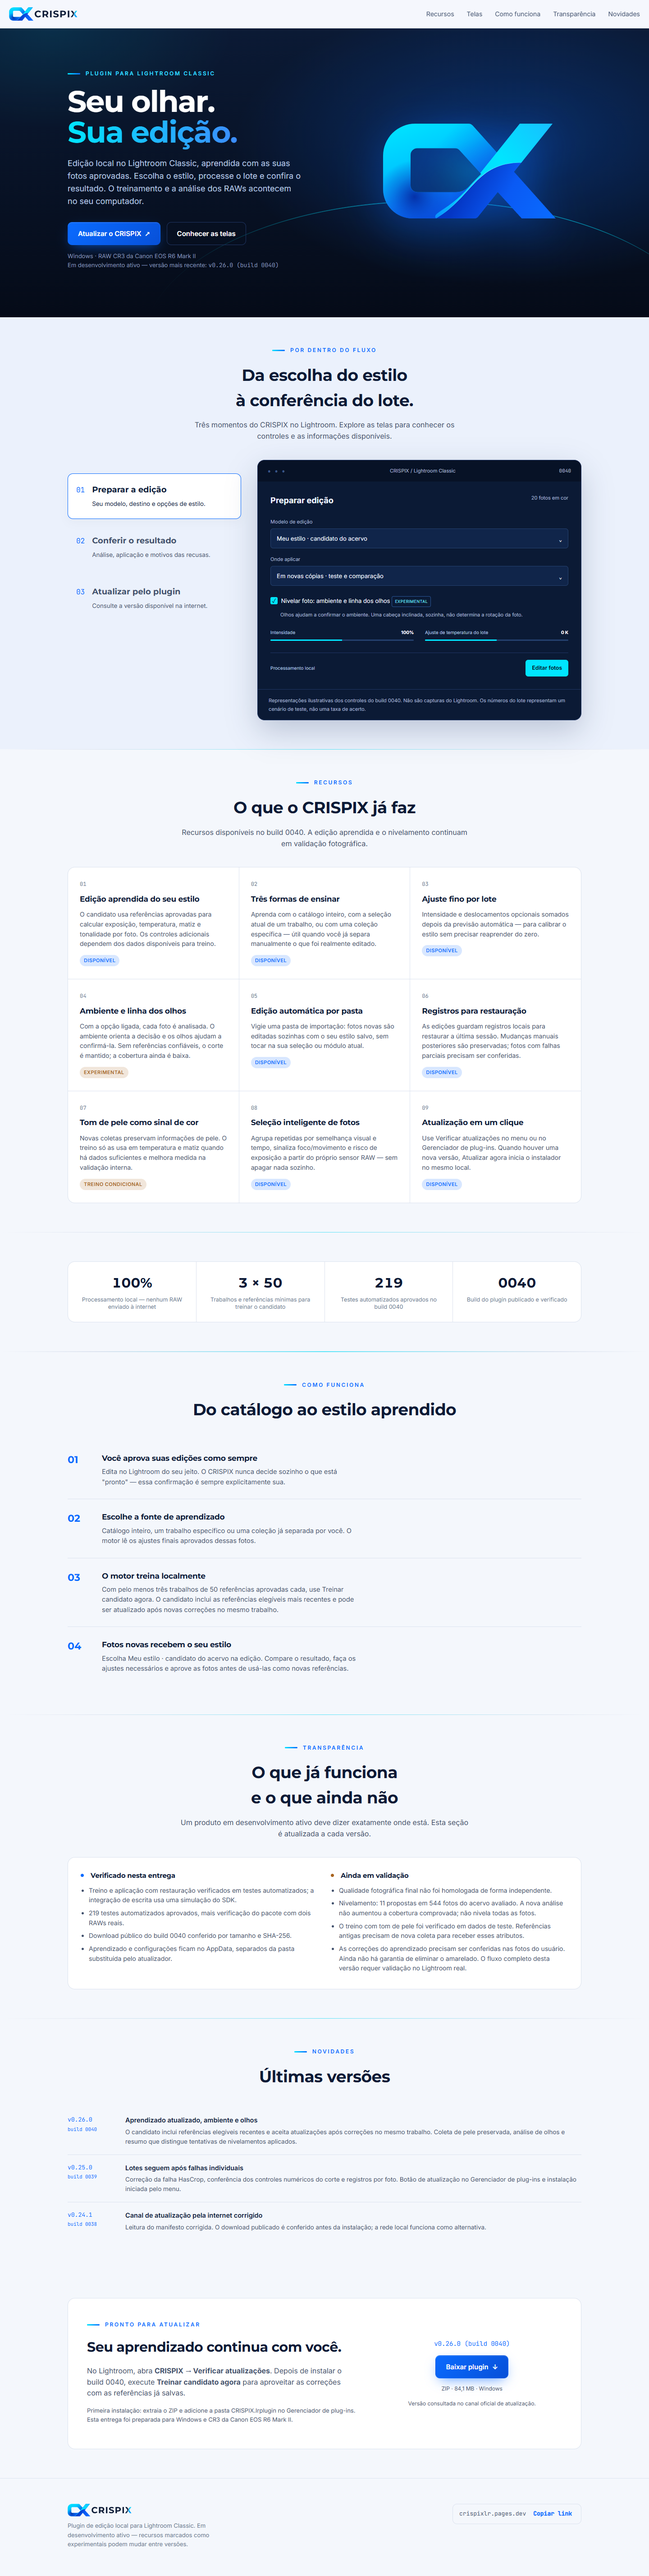
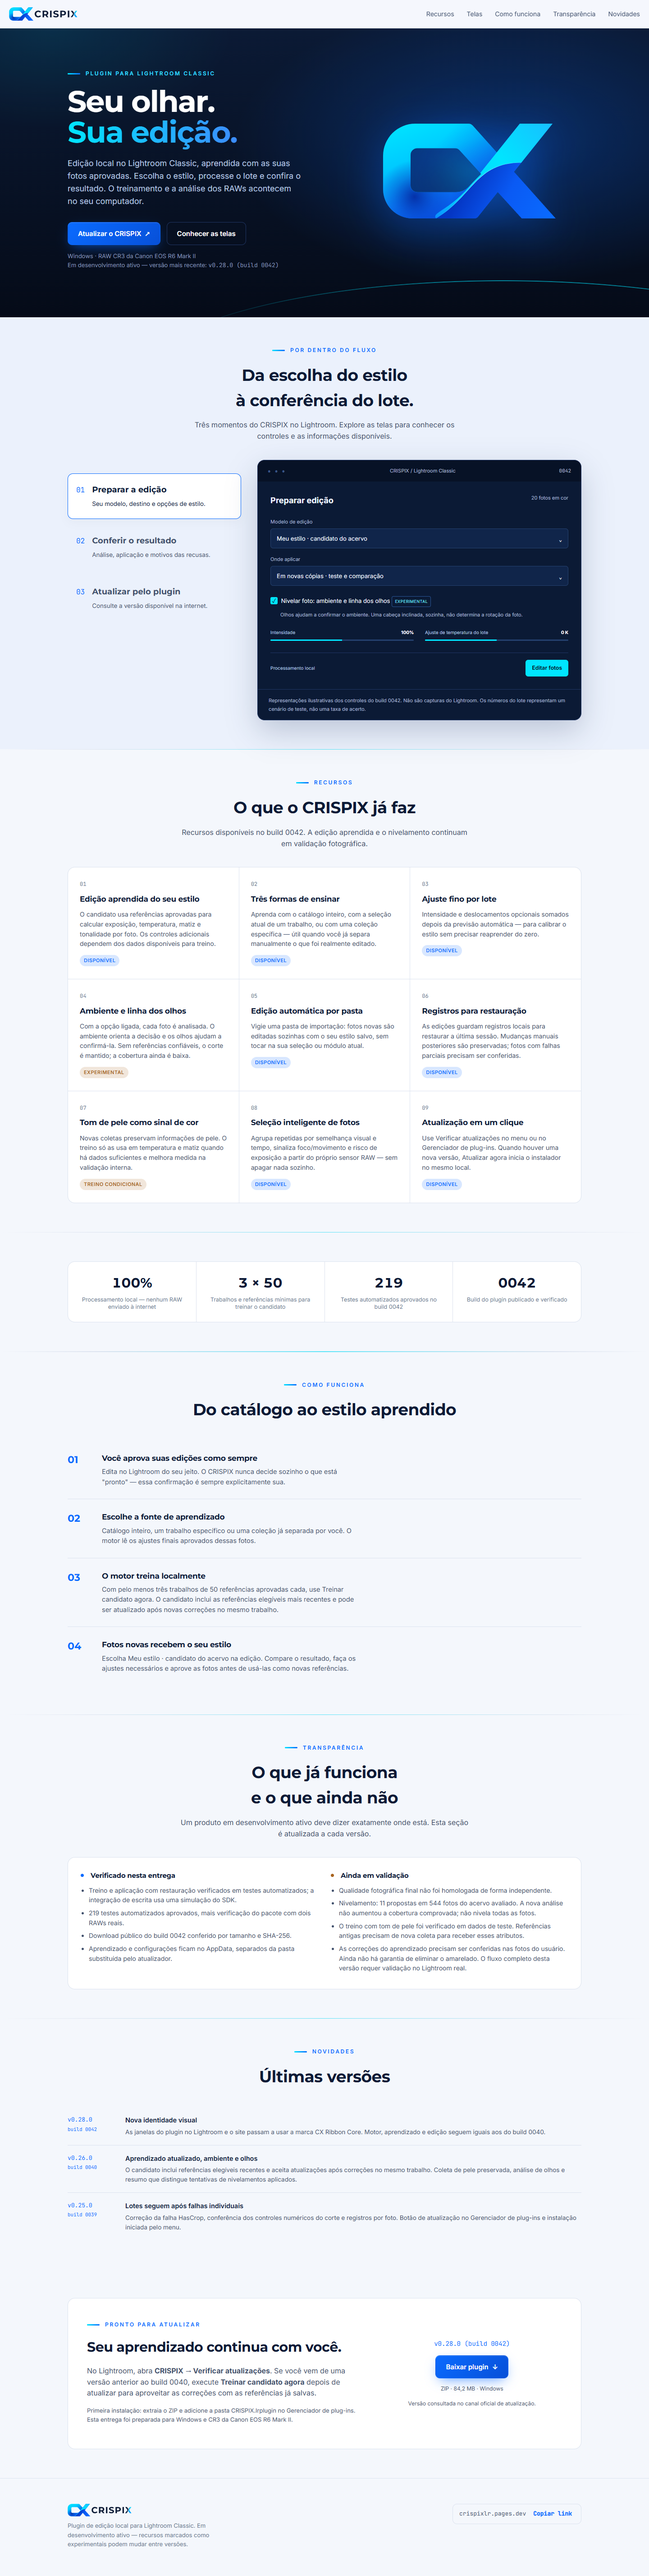
improve: registra release automatico 0042 com nova identidade e verificacao do pacote

Changed region(s): [[0.1875, 0.8108, 0.75, 0.8732], [0.4375, 0.9043, 0.4688, 0.9355]]

diff --git a/targets/mizin_lightroom/reconstructed/branding/site/index.html b/targets/mizin_lightroom/reconstructed/branding/site/index.html
@@ -3,7 +3,7 @@
 <head>
 <meta charset="utf-8">
 <meta name="viewport" content="width=device-width, initial-scale=1">
-<meta name="description" content="CRISPIX para Lightroom Classic: edição local, aprendizado com suas fotos aprovadas e atualização pelo próprio plugin. Conheça o build 0040.">
+<meta name="description" content="CRISPIX para Lightroom Classic: edição local, aprendizado com suas fotos aprovadas e atualização pelo próprio plugin. Conheça o build 0042.">
 <title>CRISPIX — seu estilo, no Lightroom Classic</title>
 <meta name="theme-color" content="#050B18">
 <link rel="icon" href="favicon.svg" type="image/svg+xml">
@@ -301,7 +301,7 @@
         <a class="btn btn-primary" href="#atualizar">Atualizar o CRISPIX <span aria-hidden="true">↗</span></a>
         <a class="btn btn-ghost" href="#telas">Conhecer as telas</a>
       </div>
-      <p class="hero-note">Windows · RAW CR3 da Canon EOS R6 Mark II<br>Em desenvolvimento ativo — versão mais recente: <span class="mono" id="verAtual">v0.26.0 (build 0040)</span></p>
+      <p class="hero-note">Windows · RAW CR3 da Canon EOS R6 Mark II<br>Em desenvolvimento ativo — versão mais recente: <span class="mono" id="verAtual">v0.28.0 (build 0042)</span></p>
     </div>
     <div class="mark-stage">
       <img src="brand/crispix-simbolo.svg" width="1192" height="660" alt="">
@@ -319,7 +319,7 @@
     <button id="tab-update" role="tab" aria-selected="false" aria-controls="screen-update" tabindex="-1" data-screen="update"><span class="screen-number">03</span><span><strong>Atualizar pelo plugin</strong><small>Consulte a versão disponível na internet.</small></span></button>
    </div>
    <div class="demo-frame">
-    <div class="demo-bar"><span class="demo-dots" aria-hidden="true">● ● ●</span><span>CRISPIX / Lightroom Classic</span><span class="mono">0040</span></div>
+    <div class="demo-bar"><span class="demo-dots" aria-hidden="true">● ● ●</span><span>CRISPIX / Lightroom Classic</span><span class="mono">0042</span></div>
     <div id="screen-edit" role="tabpanel" aria-labelledby="tab-edit" class="demo-panel">
      <div class="demo-heading"><strong>Preparar edição</strong><span>20 fotos em cor</span></div>
      <div class="mock-field"><span>Modelo de edição</span><div>Meu estilo · candidato do acervo <span aria-hidden="true">⌄</span></div></div>
@@ -339,11 +339,11 @@
     </div>
     <div id="screen-update" role="tabpanel" aria-labelledby="tab-update" class="demo-panel" hidden>
      <div class="demo-heading"><strong>Nova versão disponível</strong><span>Canal: internet</span></div>
-     <div class="update-version"><span class="small-badge">Disponível</span><strong>v0.26.0</strong><span class="mono">build 0040</span></div>
+     <div class="update-version"><span class="small-badge">Disponível</span><strong>v0.28.0</strong><span class="mono">build 0042</span></div>
      <p>O atualizador baixa o pacote e confere sua integridade antes de instalar.</p><div class="demo-callout">O Lightroom será fechado e reaberto. Conclua o backup do catálogo se a janela aparecer. O aprendizado salvo fica preservado.</div>
      <div class="demo-actions"><span>Verificar atualizações</span><span class="mock-action">Atualizar agora</span></div>
     </div>
-    <p class="demo-caption">Representações ilustrativas dos controles do build 0040. Não são capturas do Lightroom. Os números do lote representam um cenário de teste, não uma taxa de acerto.</p>
+    <p class="demo-caption">Representações ilustrativas dos controles do build 0042. Não são capturas do Lightroom. Os números do lote representam um cenário de teste, não uma taxa de acerto.</p>
    </div>
   </div>
  </div>
@@ -357,7 +357,7 @@
     <div class="section-head">
       <div class="eyebrow">Recursos</div>
       <h2>O que o CRISPIX já faz</h2>
-      <p>Recursos disponíveis no build 0040. A edição aprendida e o nivelamento continuam em validação fotográfica.</p>
+      <p>Recursos disponíveis no build 0042. A edição aprendida e o nivelamento continuam em validação fotográfica.</p>
     </div>
     <div class="features">
       <div class="feature">
@@ -425,8 +425,8 @@
     <div class="stats">
       <div class="stat"><div class="big mono">100%</div><div class="lbl">Processamento local — nenhum RAW enviado à internet</div></div>
       <div class="stat"><div class="big mono">3 × 50</div><div class="lbl">Trabalhos e referências mínimas para treinar o candidato</div></div>
-      <div class="stat"><div class="big mono">219</div><div class="lbl">Testes automatizados aprovados no build 0040</div></div>
-      <div class="stat"><div class="big mono">0040</div><div class="lbl">Build do plugin publicado e verificado</div></div>
+      <div class="stat"><div class="big mono">219</div><div class="lbl">Testes automatizados aprovados no build 0042</div></div>
+      <div class="stat"><div class="big mono">0042</div><div class="lbl">Build do plugin publicado e verificado</div></div>
     </div>
   </div>
 </section>
@@ -486,7 +486,7 @@
         <ul>
           <li>Treino e aplicação com restauração verificados em testes automatizados; a integração de escrita usa uma simulação do SDK.</li>
           <li>219 testes automatizados aprovados, mais verificação do pacote com dois RAWs reais.</li>
-          <li>Download público do build 0040 conferido por tamanho e SHA-256.</li>
+          <li>Download público do build 0042 conferido por tamanho e SHA-256.</li>
           <li>Aprendizado e configurações ficam no AppData, separados da pasta substituída pelo atualizador.</li>
         </ul>
       </div>
@@ -512,14 +512,14 @@
       <h2>Últimas versões</h2>
     </div>
     <div class="log">
+<div class="log-row"><div class="log-ver">v0.28.0<br><small>build 0042</small></div><div class="log-body"><h4>Nova identidade visual</h4><p>As janelas do plugin no Lightroom e o site passam a usar a marca CX Ribbon Core. Motor, aprendizado e edição seguem iguais aos do build 0040.</p></div></div>
 <div class="log-row"><div class="log-ver">v0.26.0<br><small>build 0040</small></div><div class="log-body"><h4>Aprendizado atualizado, ambiente e olhos</h4><p>O candidato inclui referências elegíveis recentes e aceita atualizações após correções no mesmo trabalho. Coleta de pele preservada, análise de olhos e resumo que distingue tentativas de nivelamentos aplicados.</p></div></div>
 <div class="log-row"><div class="log-ver">v0.25.0<br><small>build 0039</small></div><div class="log-body"><h4>Lotes seguem após falhas individuais</h4><p>Correção da falha HasCrop, conferência dos controles numéricos do corte e registros por foto. Botão de atualização no Gerenciador de plug-ins e instalação iniciada pelo menu.</p></div></div>
-<div class="log-row"><div class="log-ver">v0.24.1<br><small>build 0038</small></div><div class="log-body"><h4>Canal de atualização pela internet corrigido</h4><p>Leitura do manifesto corrigida. O download publicado é conferido antes da instalação; a rede local funciona como alternativa.</p></div></div>
     </div>
   </div>
 </section>
 
-<section id="atualizar" class="wrap"><div class="container download-panel"><div><div class="eyebrow">Pronto para atualizar</div><h2>Seu aprendizado continua com você.</h2><p>No Lightroom, abra <strong>CRISPIX → Verificar atualizações</strong>. Depois de instalar o build 0040, execute <strong>Treinar candidato agora</strong> para aproveitar as correções com as referências já salvas.</p><p class="download-note">Primeira instalação: extraia o ZIP e adicione a pasta CRISPIX.lrplugin no Gerenciador de plug-ins. Esta entrega foi preparada para Windows e CR3 da Canon EOS R6 Mark II.</p></div><div class="download-action"><span class="mono" id="download-version">v0.26.0 (build 0040)</span><a class="btn btn-primary" id="download-link" href="https://pub-739d5fceaa824a6c8c84e39bb74ec917.r2.dev/CRISPIX-0.26.0-build0040-motor-local.zip">Baixar plugin <span aria-hidden="true">↓</span></a><small id="download-size">ZIP · 84,1 MB · Windows</small><p id="release-status" role="status">Informações verificadas para o build 0040.</p></div></div></section>
+<section id="atualizar" class="wrap"><div class="container download-panel"><div><div class="eyebrow">Pronto para atualizar</div><h2>Seu aprendizado continua com você.</h2><p>No Lightroom, abra <strong>CRISPIX → Verificar atualizações</strong>. Se você vem de uma versão anterior ao build 0040, execute <strong>Treinar candidato agora</strong> depois de atualizar para aproveitar as correções com as referências já salvas.</p><p class="download-note">Primeira instalação: extraia o ZIP e adicione a pasta CRISPIX.lrplugin no Gerenciador de plug-ins. Esta entrega foi preparada para Windows e CR3 da Canon EOS R6 Mark II.</p></div><div class="download-action"><span class="mono" id="download-version">v0.28.0 (build 0042)</span><a class="btn btn-primary" id="download-link" href="https://pub-739d5fceaa824a6c8c84e39bb74ec917.r2.dev/CRISPIX-0.28.0-build0042-motor-local.zip">Baixar plugin <span aria-hidden="true">↓</span></a><small id="download-size">ZIP · 84,2 MB · Windows</small><p id="release-status" role="status">Informações verificadas para o build 0042.</p></div></div></section>
 </main>
 <footer class="wrap">
   <div class="container foot-grid">

diff --git a/targets/mizin_lightroom/reconstructed/branding/site/showcase.js b/targets/mizin_lightroom/reconstructed/branding/site/showcase.js
@@ -36,7 +36,7 @@ fetch('latest.json', {cache: 'no-store'}).then(response => {
   document.getElementById('download-size').textContent = `ZIP · ${(release.archiveBytes / 1e6).toLocaleString('pt-BR', {maximumFractionDigits: 1})} MB · Windows`;
   document.getElementById('release-status').textContent = 'Versão consultada no canal oficial de atualização.';
 }).catch(() => {
-  document.getElementById('release-status').textContent = 'Canal indisponível no momento. O link acima é do build 0040 já publicado.';
+  document.getElementById('release-status').textContent = 'Canal indisponível no momento. O link acima é do build 0042 já publicado.';
 });
 
 // Only approved real pairs belong in comparisons.json. Empty galleries stay out of navigation.

diff --git a/targets/mizin_lightroom/scripts/verify_site_showcase.py b/targets/mizin_lightroom/scripts/verify_site_showcase.py
@@ -8,9 +8,20 @@ from playwright.sync_api import sync_playwright
 ROOT = Path(__file__).resolve().parents[1]
 
 
+R2_PUBLIC = 'https://pub-739d5fceaa824a6c8c84e39bb74ec917.r2.dev'
+
+
+def current_release():
+    """Latest local delivery as the public manifest will serve it (downloadUrl added on publish)."""
+    release = json.loads((ROOT/'private/deliveries/latest.json').read_text(encoding='utf-8-sig'))
+    release.setdefault('downloadUrl', f"{R2_PUBLIC}/{release['archiveName']}")
+    return release
+
+
 def verify(url, output):
     output.mkdir(parents=True, exist_ok=True)
-    manifest = (ROOT/'private/publication-0040/site/latest.json').read_text(encoding='utf-8')
+    release = current_release()
+    manifest = json.dumps(release)
     errors, checks = [], []
     with sync_playwright() as p:
         browser = p.chromium.launch(channel='chrome', headless=True)
@@ -20,7 +31,7 @@ def verify(url, output):
         page.goto(url, wait_until='networkidle')
         assert page.title().startswith('CRISPIX')
         assert page.locator('h1').count()==1
-        assert page.locator('#verAtual').inner_text()=='v0.26.0 (build 0040)'
+        assert page.locator('#verAtual').inner_text()==release['version']
         assert page.locator('#comparativo').is_hidden()
         assert page.locator('[data-comparison-link]').is_hidden()
         for screen in ('result','update','edit'):
@@ -47,7 +58,7 @@ def verify(url, output):
         page.route('**/latest.json',lambda route:route.fulfill(status=503,body='Unavailable'))
         page.reload(wait_until='networkidle')
         assert 'indisponível' in page.locator('#release-status').inner_text()
-        assert 'build0040' in page.locator('#download-link').get_attribute('href')
+        assert f"build{release['build']}" in page.locator('#download-link').get_attribute('href')
         checks.append('manifest failure preserves known download')
         # A tiny test pixel exercises slider loading without presenting invented photo results.
[1 lines of base64/hex data omitted]
@@ -86,5 +97,5 @@ def verify(url, output):
 if __name__=='__main__':
     parser=argparse.ArgumentParser()
     parser.add_argument('--url',default='http://127.0.0.1:8764/')
-    parser.add_argument('--output',type=Path,default=ROOT/'evidence/site-showcase-0041')
+    parser.add_argument('--output',type=Path,default=ROOT/'evidence/site-identidade-cx')
     args=parser.parse_args();verify(args.url,args.output)

diff --git a/targets/mizin_lightroom/README.md b/targets/mizin_lightroom/README.md
@@ -1,6 +1,6 @@
 # Mizin Lightroom - aquisicao local e perfil de referencia
 
-> **Versão da Análise**: `v0.27.0 (build 0041)`
+> **Versão da Análise**: `v0.28.0 (build 0042)`
 > Atualizado em: 2026-11-14, America/Sao_Paulo.
 
 Projeto independente para Lightroom Classic no Windows, inicialmente para uso pessoal. Treinamento e inferencia devem acontecer nos computadores do usuario. O Lightroom continua responsavel pela revelacao e renderizacao final.

diff --git a/targets/mizin_lightroom/CHANGELOG.md b/targets/mizin_lightroom/CHANGELOG.md
@@ -1,5 +1,23 @@
 # CHANGELOG - mizin_lightroom
 
+## v0.28.0 (build 0042) - 2026-11-16
+
+### 💥 Breaking Changes
+
+- Nenhum.
+
+### ✨ Features
+
+- feat: aplica identidade visual CX Ribbon Core ao plugin e ao site (commit `cf5f3152d69d324066d30a3ddc5a92087595d15d`)
+
+### 🐛 Fixes
+
+- Nenhum.
+
+### ⚡ Improvements
+
+- Nenhum.
+
 ## v0.27.0 (build 0041) - 2026-11-14
 
 ### 💥 Breaking Changes
